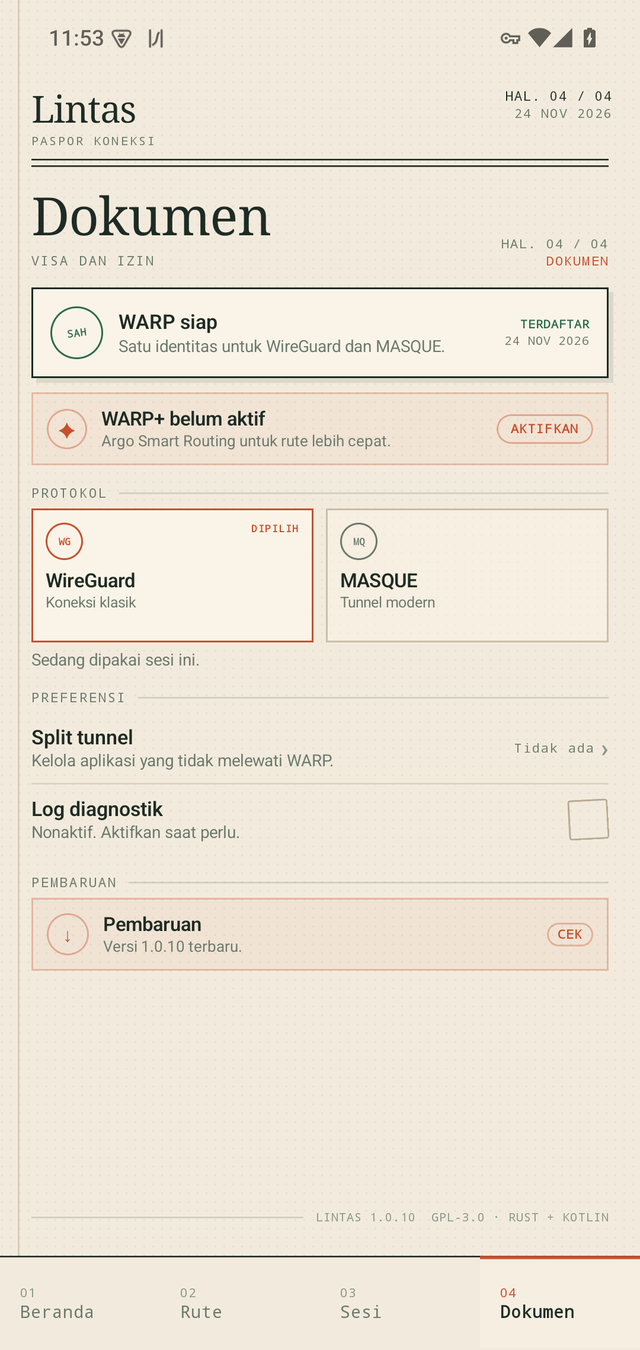
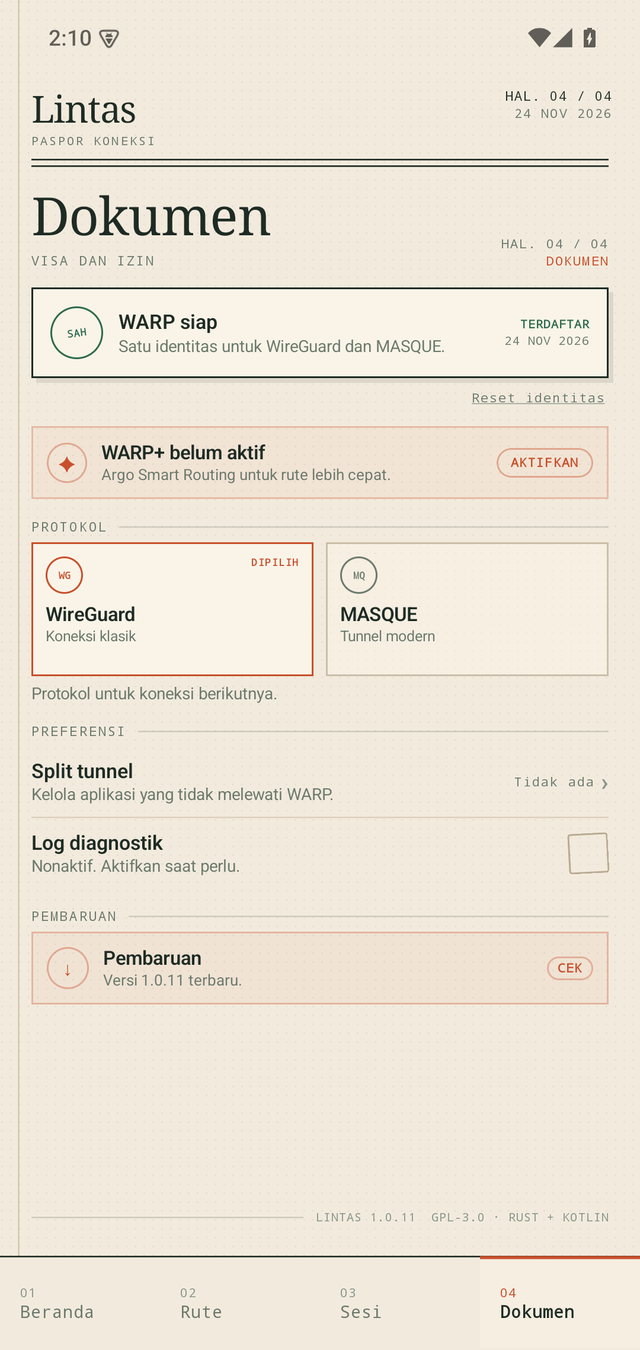
Lintas v1.0.11: remove in-app updater

diff --git a/README.md b/README.md
@@ -55,9 +55,8 @@ Cloudflare without a relay or account server.
   Changes apply on the next disconnect and reconnect.
 - **WARP+** license activation, account status refresh, and expiry display when
   available.
-- **In-app updates** from GitHub Releases, with SHA-256 (when provided),
-  package, version, and signing-certificate verification before the Android
-  installer opens.
+- **Update checks** from GitHub Releases. Lintas opens the release page in
+  your browser; download and install updates manually.
 - **Encrypted identity** storage using Android Keystore.
 - **Optional local diagnostic log** for transport and reconnect issues.
 - No account, billing, telemetry, or backend in the data path.
@@ -82,7 +81,7 @@ interface. WARP registration and WARP+ activation go directly to Cloudflare.
 1. Download the latest `lintas-<version>.apk` from
    [Releases](https://github.com/hafizhlf/lintas-vpn/releases/latest).
 2. Android 10 (API 29) or newer is required.
-3. Allow your browser or Lintas to install unknown apps the first time.
+3. Allow your browser to install unknown apps the first time.
 4. Open Lintas, register a free WARP identity in **Dokumen**, then connect.
 
 A WARP+ license key is optional.
@@ -90,20 +89,18 @@ A WARP+ license key is optional.
 Verify the download with the `SHA256SUMS` asset from the same release:
 
 ```bash
-sha256sum lintas-1.0.10.apk
+sha256sum lintas-1.0.11.apk
 ```
 
-### In-app updates
+### Update checks
 
 Lintas checks GitHub Releases at most once every 24 hours and on demand from
-**Dokumen → Pembaruan**. It downloads the APK inside the app, verifies the
-SHA-256 (when GitHub provides a digest), package name, version, and signing
-certificate, then opens the Android installer. A verified download survives
-process death and installer
-cancellation; you can discard it from the dialog.
+**Dokumen → Pembaruan**. When a newer release is available, the dialog shows the
+version and a button to open the release page in your browser. Download the APK
+from there and install it manually; Lintas no longer downloads or installs APKs
+on its own.
 
-Downloads run only while the app is open. Installing an update disconnects the
-VPN; reconnect afterwards.
+Installing an update disconnects the VPN; reconnect afterwards.
 
 Lintas reports its VPN network as unmetered, so Android apps do not treat the
 tunnel as limited data even when the underlying Wi-Fi is unmetered.
@@ -145,7 +142,7 @@ APK; sign it with your own release keystore before distributing it.
 ```text
 app/        Kotlin, Jetpack Compose, VpnService, WARP control plane
 core/       Rust data plane, JNI, WireGuard and MASQUE transports
-docs/       System design, update design, and README screenshots
+docs/       System design, release plans, and README screenshots
 mockups/    UI design reference
 ```
 
@@ -153,20 +150,20 @@ mockups/    UI design reference
 
 Tested on a Poco X8 Pro Max (Android 16) with both WireGuard and MASQUE. The
 transport reconnects after active-path changes without tearing down the VPN
-interface. Split tunneling and in-app updates are available in Dokumen.
-Kill switch is not part of this release yet. The app UI is in Indonesian.
+interface. Split tunneling is available in Dokumen; update checks open the
+GitHub release page. Kill switch is not part of this release yet. The app UI is
+in Indonesian.
 
-Releases are published on GitHub. Update downloads run only while the app is
-open, and the first update asks for the Android "Install unknown apps"
-permission for Lintas. Installing an update disconnects the VPN; it does not
+Releases are published on GitHub. Download and install updates from the release
+page with your browser. Installing an update disconnects the VPN; it does not
 reconnect automatically.
 
 ## Privacy
 
 WARP registration and WARP+ activation talk directly to Cloudflare. Runtime
 traffic goes through the WARP tunnel or directly to Cloudflare for
-registration and activation; the only non-Cloudflare calls are the update
-check and APK download from GitHub. Lintas does not run a relay or backend.
+registration and activation; the only non-Cloudflare call is the update check
+from GitHub. Lintas does not run a relay or backend.
 WARP identity and license
 data are stored encrypted on the device. The WARP+ license key is never stored
 in plaintext. There is no analytics, telemetry, or crash reporting. The

diff --git a/CHANGELOG.md b/CHANGELOG.md
@@ -1,5 +1,13 @@
 # Changelog
 
+## 1.0.11 - 2026-11-24
+
+- Remove in-app APK download and installation. **Dokumen → Pembaruan** now
+  opens the GitHub release page for a manual install.
+- Remove the `REQUEST_INSTALL_PACKAGES` permission and the update
+  `FileProvider`. This removes the self-updater pattern that Play Protect may
+  flag as harmful.
+
 ## 1.0.10 - 2026-11-24
 
 - Report the VPN network as unmetered. Android no longer treats the tunnel as
